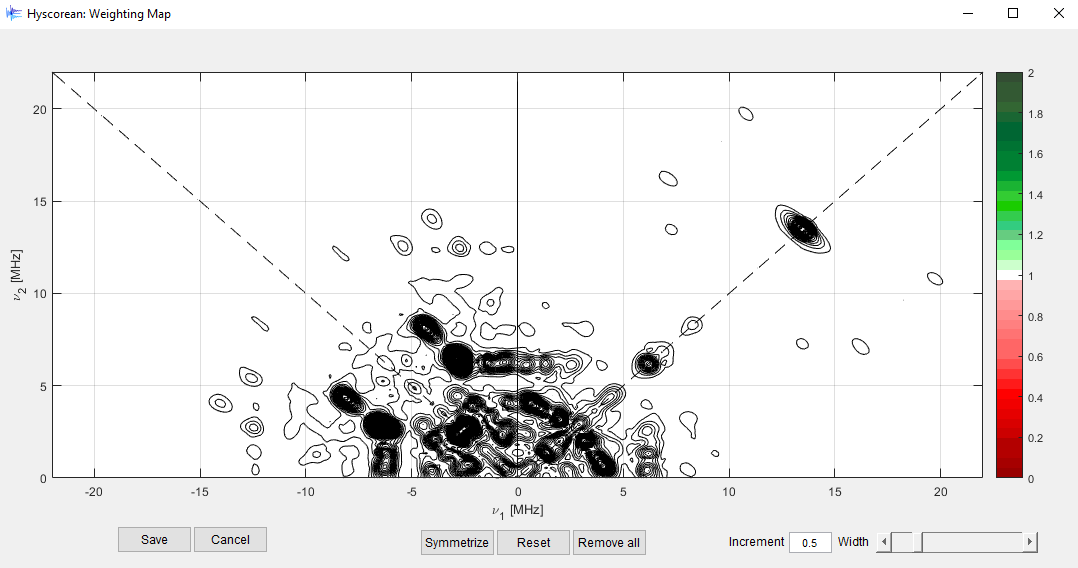
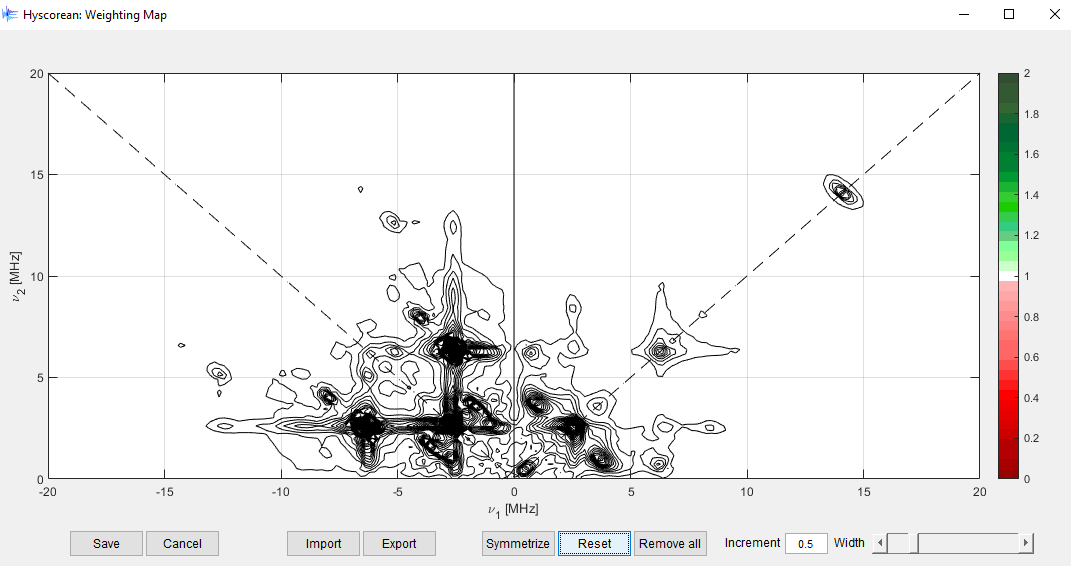
imlemented import/export system for the weighing maps, adapted docs

diff --git a/docs/weightingmap.html b/docs/weightingmap.html
@@ -51,7 +51,7 @@ However, there may be situations where a non-uniform weighting of the experiment
 </center>
 
 <p>
-The new window will contain a display of the experimental spectrum as in the fitting module. The weight map (displyed as a red/white/green colormap) starts by default as a uniform distribution of ones, i.e. no weighting is applied. This map can be modified freely by clicking on different regions of the spectrum. By clicking a Gaussian distribution of a certaing width and amplitude is added to the map. The program differentiates between left and right clicking: <code>left-clicking</code> will add positive weighting, whereas <code>right-clicking</code> will add negative weighting. At all points the colormap values can be referenced to the colorbar given next to the spectrum. 
+The new window will contain a display of the experimental spectrum as in the fitting module. The weight map (displyed as a red/white/green colormap) starts by default as a uniform distribution of ones, i.e. no weighting is applied. This map can be modified freely by clicking on different regions of the spectrum. By clicking a Gaussian distribution of a certaing width and amplitude is added to the map. The program differentiates between left and right clicking: <code>left-clicking</code> will add positive weighting, whereas <code>right-clicking</code> will add negative weighting. At all points the colormap values can be referenced to the colorbar given next to the spectrum. The weight maps can be exported via the <code>Export</code> as a MAT-file. This file can be later be imported back to the program via the <code>Import</code> button.  
 </p>
 
 <center>
@@ -100,6 +100,8 @@ Due to the weighting maps being drawn by hand it may be difficult to achieve sym
 <center>
 <img src= "img/weightmap4.png",  width="60%", class="center">
 </center>
+
+
 
 <!-- =========================================================== -->
 <hr>

diff --git a/docs/savingfitting.html b/docs/savingfitting.html
@@ -73,6 +73,7 @@ Saves the selected parameter set to the MATLAB workspace as a structure variable
 .residuals  % Cell array of residuals 
 .bestValues % Array of the parameter values in the best column 
 .Sys        % Structure with spin system definition
+.weightmap  % Matrix of weights on the experimental spectrum
 .ID         % ID of the parameter set</pre>
 </ul>
 
@@ -96,6 +97,9 @@ The report contains the following:
 <li> A summary of the fitting options employed and a copy of the <code>Parameters</code> table containing the best values of the fit.
 <li> For each fitted spectrum the report includes a copy of the experimental spectrum overlaid with the best fit as in the GUI. Additionally, both the experimental spectrum as the fitted spectrum are displayed separately for a better visualization.
 <li> A summary of the evolution of the total RMSD as well as the RMSDs of the individual fitted spectra.
+<li> A table of the exact containts of the <code>Exp</code>,<code>Sys</code> ans <code>Opt</code> Easyspin structures.
+<li> A copy of the weights map employed for the fitting.
+
 </ul>
 
 <p>

diff --git a/bin/getEasySpin_weighting.m b/bin/getEasySpin_weighting.m
@@ -93,7 +93,7 @@ x0 = -0.15;
 y0 = -0.005;
 uicontrol('Style','pushbutton',...
   'Units','normalized',...
-  'Position',[x0+0.54 y0+0.03 0.07 0.05],...
+  'Position',[x0+0.60 y0+0.03 0.07 0.05],...
   'BackgroundColor',get(gcf,'Color'),...
   'String','Symmetrize',...
   'FontSize',9,...
@@ -101,7 +101,7 @@ uicontrol('Style','pushbutton',...
 
 uicontrol('Style','pushbutton',...
   'Units','normalized',...
-  'Position',[x0+0.61 y0+0.03 0.07 0.05],...
+  'Position',[x0+0.67 y0+0.03 0.07 0.05],...
   'BackgroundColor',get(gcf,'Color'),...
   'String','Reset',...
   'FontSize',9,...
@@ -109,7 +109,7 @@ uicontrol('Style','pushbutton',...
 
 uicontrol('Style','pushbutton',...
   'Units','normalized',...
-  'Position',[x0+0.68 y0+0.03 0.07 0.05],...
+  'Position',[x0+0.74 y0+0.03 0.07 0.05],...
   'BackgroundColor',get(gcf,'Color'),...
   'String','Remove all',...
   'FontSize',9,...
@@ -117,7 +117,7 @@ uicontrol('Style','pushbutton',...
 
 uicontrol('Style','pushbutton',...
   'Units','normalized',...
-  'Position',[0.11 0.03 0.07 0.05],...
+  'Position',[0.07 y0+0.03 0.07 0.05],...
   'BackgroundColor',get(gcf,'Color'),...
   'String','Save',...
   'FontSize',9,...
@@ -125,11 +125,27 @@ uicontrol('Style','pushbutton',...
 
 uicontrol('Style','pushbutton',...
   'Units','normalized',...
-  'Position',[0.18 0.03 0.07 0.05],...
+  'Position',[0.14 y0+0.03 0.07 0.05],...
   'BackgroundColor',get(gcf,'Color'),...
   'String','Cancel',...
   'FontSize',9,...
   'HorizontalAl','left','Callback',@CancelCallback);
+
+uicontrol('Style','pushbutton',...
+  'Units','normalized',...
+  'Position',[0.27 y0+0.03 0.07 0.05],...
+  'BackgroundColor',get(gcf,'Color'),...
+  'String','Import',...
+  'FontSize',9,...
+  'HorizontalAl','left','Callback',@ImportCallback);
+
+uicontrol('Style','pushbutton',...
+  'Units','normalized',...
+  'Position',[0.34 y0+0.03 0.07 0.05],...
+  'BackgroundColor',get(gcf,'Color'),...
+  'String','Export',...
+  'FontSize',9,...
+  'HorizontalAl','left','Callback',@ExportCallback);
 
 uicontrol('Style','slider',...
   'Units','normalized',...
@@ -242,7 +258,28 @@ function EditCallback(gcbo,eventdata)
     end
     set(findobj('Tag','GaussianEdit'),'String',Increment);
 end
-
+function ExportCallback(gcbo,eventdata)
+    [filename,path] = uiputfile({'*.mat'},'Export as...');
+    if filename==0
+      return  
+    end
+    save(fullfile(path,filename),'Weights'); 
+end
+function ImportCallback(gcbo,eventdata)
+    tmp = Weights;
+    [filename,path] = uigetfile({'*.mat'},'Import map...');
+    if filename==0
+      return  
+    end
+    load(fullfile(path,filename));
+    if any(size(Weights)~= [numel(XAxis) numel(YAxis)])
+        w = errordlg('The imported map size is not compatible with the current data. Operation aborted.');
+        waitfor(w);
+        Weights = tmp;
+    end
+    set(pcolorhandle,'CData',Weights);
+    drawnow
+end
 %--------------------------------------------------------------------------
 % Mouse Functionality Attachment
 %--------------------------------------------------------------------------
